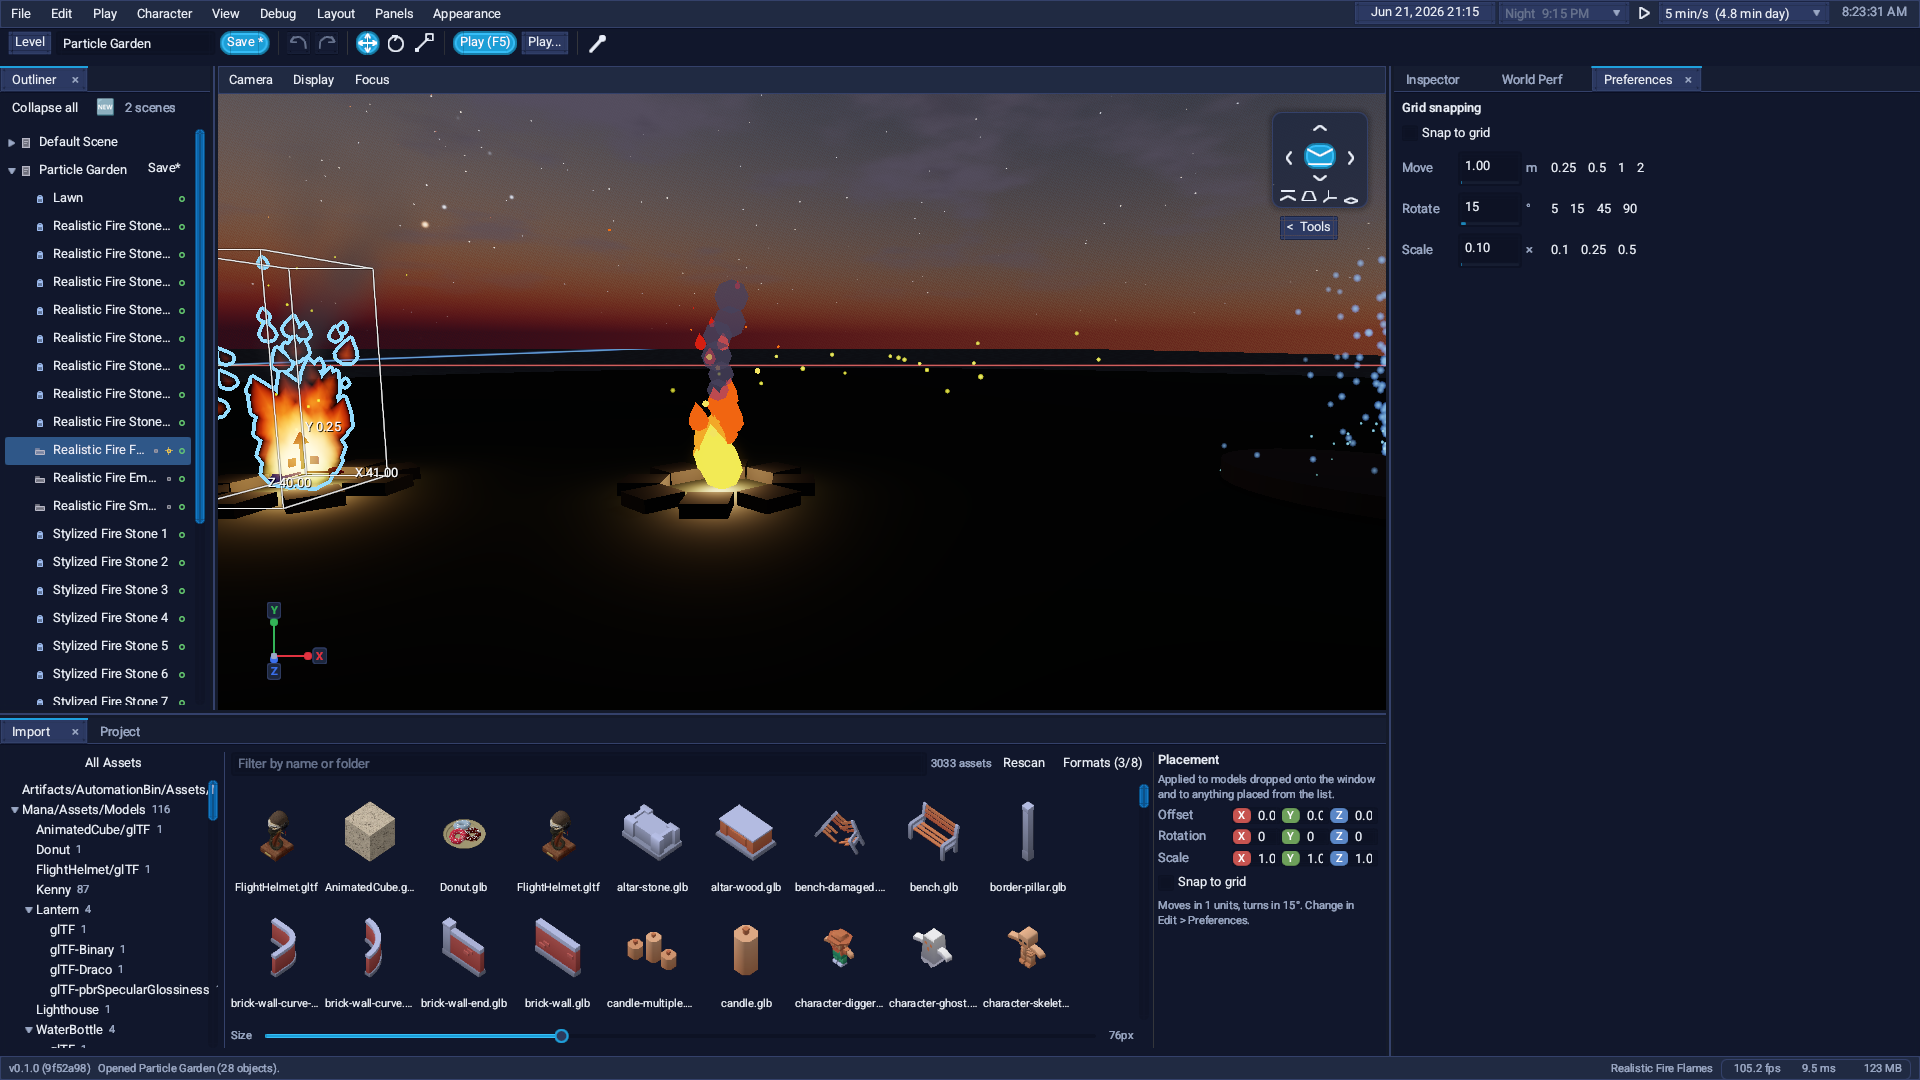
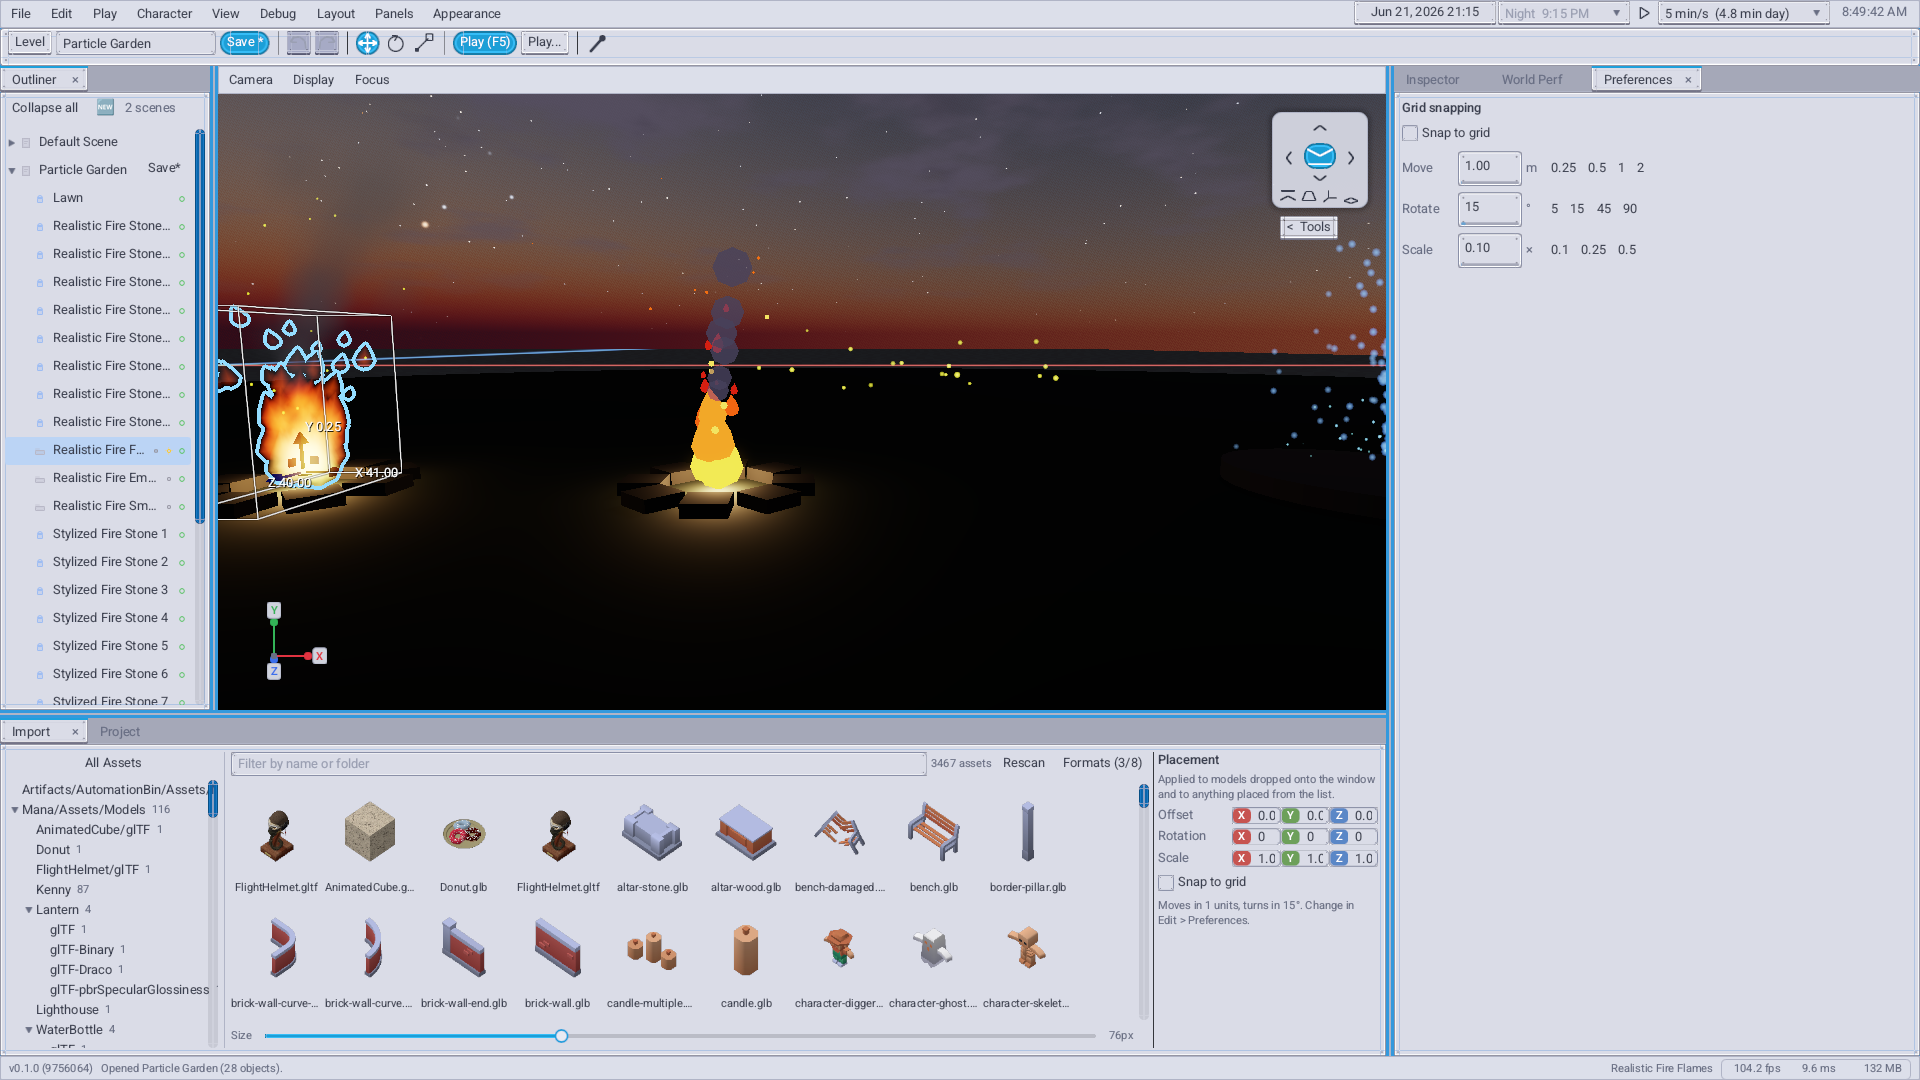
Kenney theme: light pale panels with dark type and blue bars, as in the pack's own sample

diff --git a/ManaUI/Code/Theming/UiTheme.cs b/ManaUI/Code/Theming/UiTheme.cs
@@ -270,31 +270,39 @@ namespace ManaUI
         }
 
         /// <summary>
-        /// Kenney's Space UI pack: a deep navy with the pack's sky blue for accents. The pictures themselves
-        /// (<see cref="Skin"/>) come from the host once it has an atlas to put them in.
+        /// Kenney's Space UI pack, as its own sample shows it: pale grey-lilac panels and buttons with dark type, blue
+        /// header bars, and the pack's bright blue behind. The pictures themselves (<see cref="Skin"/>) come from the
+        /// host once it has an atlas to put them in; these tokens carry the colours without them.
         /// </summary>
         public static UiTheme Kenney()
         {
             return new UiTheme
             {
                 Kind = UiThemeKind.Kenney,
-                Background = UiColor.FromHex("#141A2A"),
-                Surface = UiColor.FromHex("#202A42"),
-                SurfaceAlt = UiColor.FromHex("#161D31"),
-                SurfaceRaised = UiColor.FromHex("#2D3A5C"),
-                RowAlternate = UiColor.FromHex("#1B2439"),
-                Text = UiColor.FromHex("#E8EEFA"),
-                TextMuted = UiColor.FromHex("#9AA8C6"),
-                TextDisabled = UiColor.FromHex("#66728E"),
+                Background = UiColor.FromHex("#3399DD"),
+                Surface = UiColor.FromHex("#DCDFEA"),
+                SurfaceAlt = UiColor.FromHex("#A5A8B8"),
+                SurfaceRaised = UiColor.FromHex("#E8EAF2"),
+                RowAlternate = UiColor.FromHex("#D2D5E2"),
+                Text = UiColor.FromHex("#3A3F50"),
+                TextMuted = UiColor.FromHex("#686E84"),
+                TextDisabled = UiColor.FromHex("#9A9FB2"),
+                TextOnAccent = UiColor.FromHex("#FFFFFF"),
                 Accent = UiColor.FromHex("#1FA0DC"),
                 AccentHover = UiColor.FromHex("#3DB4EC"),
                 AccentPressed = UiColor.FromHex("#1584B8"),
-                Border = UiColor.FromHex("#34416A"),
-                BorderStrong = UiColor.FromHex("#4A5B8C"),
-                CornerRadius = new CornerRadius(6.0f),
-                CornerRadiusLarge = new CornerRadius(10.0f),
-                GridFloor = UiColor.FromHex("#8E96AE"),
-                GridLine = UiColor.FromHex("#66708E")
+                Border = UiColor.FromHex("#B0B4C6"),
+                BorderStrong = UiColor.FromHex("#8A90A8"),
+                Hover = new Vector4(0.06f, 0.20f, 0.40f, 0.07f),
+                Pressed = new Vector4(0.06f, 0.20f, 0.40f, 0.14f),
+                Selected = UiColor.FromHex("#BBD4F5"),
+                SurfaceGradient = 0.0f,
+                AccentGradient = 0.0f,
+                CornerRadius = new CornerRadius(5.0f),
+                CornerRadiusLarge = new CornerRadius(8.0f),
+                GridFloor = UiColor.FromHex("#C8CCDA"),
+                GridLine = UiColor.FromHex("#9CA2B8"),
+                GridCheckerRatio = 0.9645f
             };
         }
 

diff --git a/Mana/Code/UI/ManaUi/KenneyUiSkin.cs b/Mana/Code/UI/ManaUi/KenneyUiSkin.cs
@@ -41,13 +41,14 @@ namespace Mana.Code.UI.ManaUi
             // Insets are in the picture's own pixels: its rounded corner and border.
             var parts = new (string Name, string File, float Inset)[]
             {
-                ("button", "Extra/Default/button_rectangle.png", 12.0f),
-                ("panel", "Extra/Default/panel_rectangle.png", 14.0f),
+                ("button", "Extra/Default/button_rectangle_depth.png", 12.0f),
+                ("buttonPressed", "Extra/Default/button_rectangle.png", 12.0f),
+                ("panel", "Extra/Default/button_rectangle.png", 14.0f),
                 ("titleBar", "Blue/Default/bar_square_large.png", 5.0f),
                 ("primary", "Blue/Default/bar_round_large.png", 11.0f),
                 ("track", "Extra/Default/bar_shadow_round_large.png", 11.0f),
                 ("fill", "Blue/Default/bar_round_large.png", 11.0f),
-                ("input", "Extra/Default/bar_shadow_square_outline_large.png", 6.0f)
+                ("input", "Extra/Default/button_rectangle.png", 12.0f)
             };
 
             var uvs = new Dictionary<string, (Vector4 Uv, Vector2 Size)>();

diff --git a/ManaUI/Code/Windows/UiWindow.cs b/ManaUI/Code/Windows/UiWindow.cs
@@ -232,9 +232,9 @@ namespace ManaUI
 
             drawList.DrawShadow(Bounds, new Vector4(0.0f, 0.0f, 0.0f, 0.4f), 20.0f, corners);
             var skin = theme.Skin;
-            if (skin != null && skin.TryGet("panel", out var panel))
+            if (drawList.DrawSkin(theme, "panel", Bounds, theme.Surface))
             {
-                drawList.DrawNineSlice(Bounds, panel, theme.Surface * 1.12f, 0.5f);
+                // Dressed in the skin's panel.
             }
             else
             {
@@ -333,7 +333,8 @@ namespace ManaUI
                 layout.MaxWidth,
                 titleBar.Height);
 
-            layout.Render(drawList, textArea, IsFocusedWindow ? theme.Text : theme.TextMuted,
+            var onBlueBar = theme.Skin != null && theme.Skin.TryGet("titleBar", out _);
+            layout.Render(drawList, textArea, onBlueBar ? (IsFocusedWindow ? theme.TextOnAccent : theme.TextOnAccent.WithAlpha(0.75f)) : IsFocusedWindow ? theme.Text : theme.TextMuted,
                 VerticalAlignment.Center);
         }
 

diff --git a/ManaUI/Code/Docking/DockTabGroup.cs b/ManaUI/Code/Docking/DockTabGroup.cs
@@ -528,10 +528,10 @@ namespace ManaUI
                 drawList.FillBackdrop(strip, theme.Frosted(theme.SurfaceAlt), theme.BackdropBlur, default);
                 drawList.FillBackdrop(content, theme.Frosted(theme.Surface), theme.BackdropBlur, default);
             }
-            else if (theme.Skin is { } skin && skin.TryGet("panel", out var panel))
+            else if (theme.Skin is { } skin && skin.TryGet("panel", out _))
             {
                 drawList.FillRect(strip, theme.SurfaceAlt);
-                drawList.DrawNineSlice(content, panel, theme.Surface * 1.12f, 0.35f);
+                drawList.DrawSkin(theme, "panel", content, theme.Surface);
             }
             else
             {

diff --git a/ManaUI/Code/Controls/TextBox.cs b/ManaUI/Code/Controls/TextBox.cs
@@ -139,10 +139,8 @@ namespace ManaUI
 
             if (drawList.DrawSkin(theme, "input", Bounds, enabled ? UiColor.White : new Vector4(1.0f, 1.0f, 1.0f, 0.5f), lift: false))
             {
-                if (IsFocused)
-                {
-                    drawList.DrawBorder(Bounds, theme.Accent, 1.5f, corners);
-                }
+                // The skin's pale picture has no edge of its own that reads as a field, so the border does.
+                drawList.DrawBorder(Bounds, IsFocused ? theme.Accent : theme.BorderStrong, IsFocused ? 1.5f : 1.0f, corners);
             }
             else
             {

diff --git a/ManaUI/Code/Controls/CheckBox.cs b/ManaUI/Code/Controls/CheckBox.cs
@@ -95,7 +95,11 @@ namespace ManaUI
             }
             else
             {
-                if (!drawList.DrawSkin(theme, "input", box, enabled ? UiColor.White : new Vector4(1.0f, 1.0f, 1.0f, 0.5f), lift: false))
+                if (drawList.DrawSkin(theme, "input", box, enabled ? UiColor.White : new Vector4(1.0f, 1.0f, 1.0f, 0.5f), lift: false))
+                {
+                    drawList.DrawBorder(box, theme.BorderStrong, 1.0f, corners);
+                }
+                else
                 {
                     drawList.DrawBox(
                         box,

diff --git a/ManaUI/Code/Controls/Button.cs b/ManaUI/Code/Controls/Button.cs
@@ -185,6 +185,12 @@ namespace ManaUI
                 tint = new Vector4(MathF.Min(fill.X * 1.18f, 1.0f), MathF.Min(fill.Y * 1.18f, 1.0f), MathF.Min(fill.Z * 1.18f, 1.0f), 1.0f);
             }
 
+            // Pressed: the flat picture, so the button reads as pushed in.
+            if (!accent && IsPressed && skin.TryGet("buttonPressed", out var pressed))
+            {
+                slice = pressed;
+            }
+
             drawList.DrawNineSlice(Bounds, slice, tint, MathF.Min(1.0f, Bounds.Height / slice.Size.Y));
             return true;
         }

diff --git a/Plans/Todo-Finished.md b/Plans/Todo-Finished.md
@@ -269,3 +269,7 @@ the existing .wav jump/pickup/stomp. DevPhotos/2026-09-30 2d-kenney-platformer-p
     expander headers, tabs (view and dock), the menu bar and menu rows (blue pill highlight), menu popups, and scrollbars,
     on top of buttons, windows, tab panels and sliders/progress bars. Border has a SkinName for any other panel.
     Not done: the pack's font, its cursors (the cursor pack is a separate zip) and the web (the pack is not in the asset catalog).
+
+    Claude (2026-10-08, later): matched to Kenney's own sample picture -- the Kenney theme is now a light one: pale lilac
+    panels, buttons and fields with dark type, blue title bars and primary buttons, the pack's bright blue behind, raised
+    buttons that sit flat when pressed.
